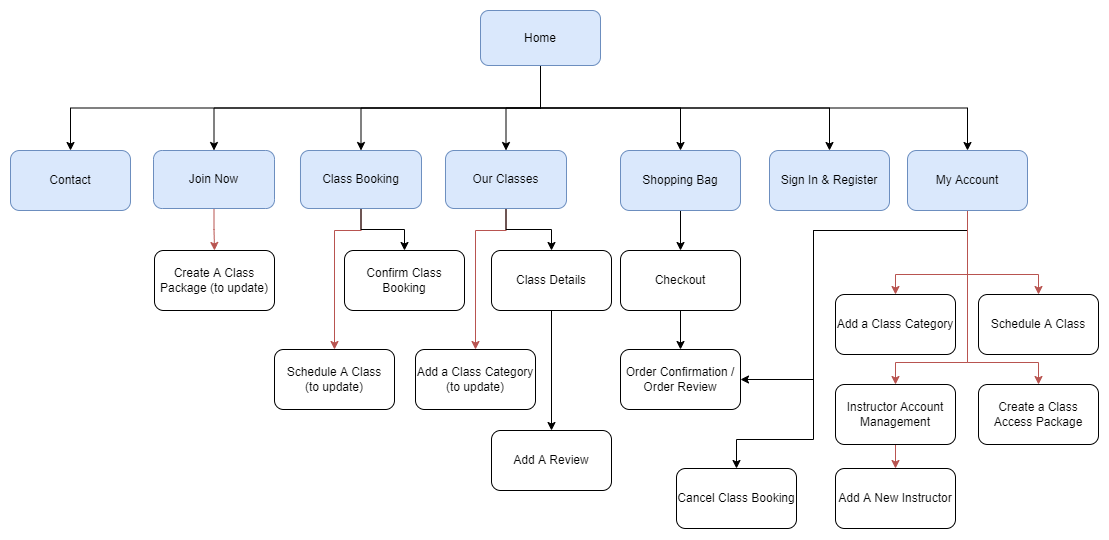
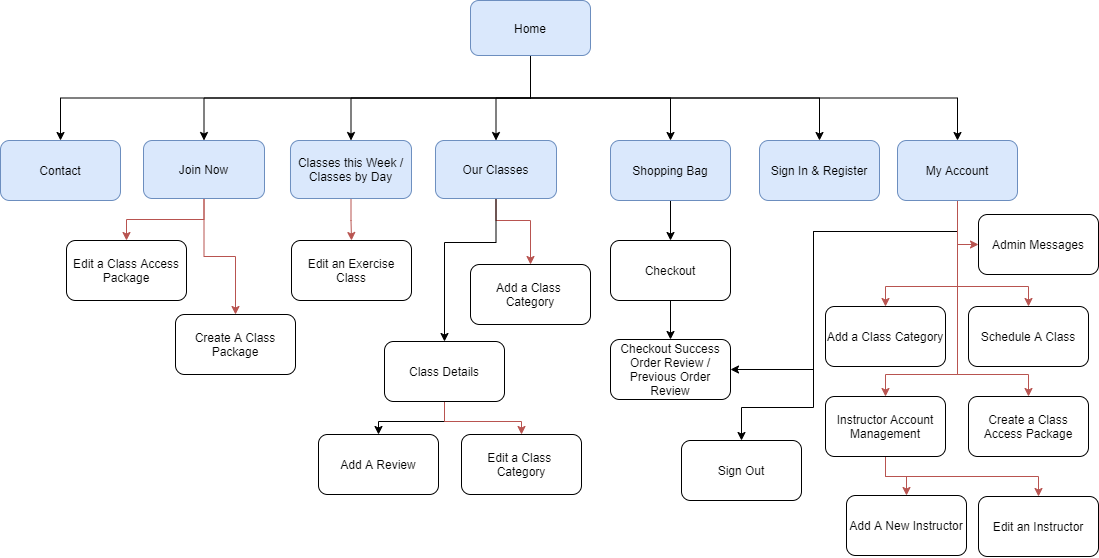
doc: update topology and added device testing

diff --git a/README.md b/README.md
@@ -104,7 +104,7 @@ The graph shows an axis of up to 6 however data scores range from 1 to 5 making 
 
 Not all users will be able to access all features.
 
-#### **I-V Analysis Conclusion**
+#### **Analysis Conclusion**
 
 After the analysis of the features suggested, all features will be implemented **apart** from feature **3, 11, 15, 16, 18, 20**. These have been removed due to complexity and time restraints mainly but have been added to the list of features for future releases.
 
@@ -173,7 +173,7 @@ Color Key for app that contains the model:
 - Purple - classes
 - Green - products
 - Orange - profiles
-- Grey - allauth
+- Grey - allauth provided
 - Red - instructors
 - Pink - reviews
 - Blue - contact
@@ -459,7 +459,6 @@ Error handling is being managed by the supplied functions and templates from Dja
 
 ### **Features for Future Releases**
 
-- Sign In and Out with other social media accounts
 - Add customers to waiting lists if a class is full, with email notification on space opening up
 - Purchase multiple classes with a weekly interval with a specified number of weeks
 - Create, View, Edit and Delete Class Access Packages for specific class categories
@@ -468,6 +467,7 @@ Error handling is being managed by the supplied functions and templates from Dja
 - Messaging system to allow admin to respond to customers with accounts
 - Add accessory products to the store like apparel, water bottles etc
 - Refactor Profile into separate pages to allow redirection to specific sections
+- Sign In and Out with other social media accounts
 - When a Single Exercise Class is created or update, the Superuser would be taken to the day view for that class to make it easier to find.
 - Update Stripe integration to the latest release from Stripe to improve functionality.
 
@@ -513,6 +513,8 @@ This is a table of the major bugs and issues that I experienced when building th
 8. If there is an error in the Edit a Single Exercise Class function, it will redirect to the Classes this Week.
 
 ## **DEPLOYMENT**
+
+For the steps required to deploy this project, please view the [GymFit Deployment Document]()
 
 ## **TECHNOLOGY USED**
 

diff --git a/readme/assets/testing.md b/readme/assets/testing.md
@@ -21,6 +21,7 @@ I requested peer review feedback from my friends, family and the Code Institute 
 |Anya McDonald |Would like some more about opening hours  |Added opening hours to the home page |
 |Laila (Slack) |500 response when adding a package to their bag as a guest  |Added login_required decorator to prompt user to sign in/up to purchase a package |
 |Tayla Joel |Would like to be able to sign in using social media accounts  |Added to the future development features list |
+|Frannie Yip (Slack) |Missed the sent message notification. Maybe redirect to a different page to make it clearer the message has been sent  |Changed message redirect to the home page |
 
 ## Responsive Design 
 
@@ -37,9 +38,14 @@ Here are the results to these tests:
 
 During testing, I realised the Admin Messages table was acting responsively however this led to the table being horizontally scrollable, at smaller screen widths, which was hampering the UX. To correct this I refactored the Admin Message display to a custom design which was more responsive, before running my responsive tests again.
 
+For device responsive testing I used:
+- A Samsung Galaxy S10 (360px) as it is roughly in the middle of the range of screen sizes I tested for mobile, 
+- A Samsung Galaxy Tab 4 Tablet (800px) as again it is roughly in the middle of the range of tablet screen resolutions test 
+- A full HD 15" laptop and full HD 32" monitor (1920x1080).
+
 ## Browser Testing
 
-I manually tested the project on the Browsers Firefox (version 94), Chrome (version 96) and Edge (version 95) on my Windows 10 machine and called a peer to talk them through testing the page on Safari (version 15.1), so I could manually test all browsers desktop.
+I manually tested the project on the Browsers Firefox (version 94), Chrome (version 96) and Edge (version 95) on my Windows 10 machine and called a peer to talk them through testing the page on Safari (version 15.1), so I could manually test all browsers on desktop.
 
 All features and designs were as expected.
 
